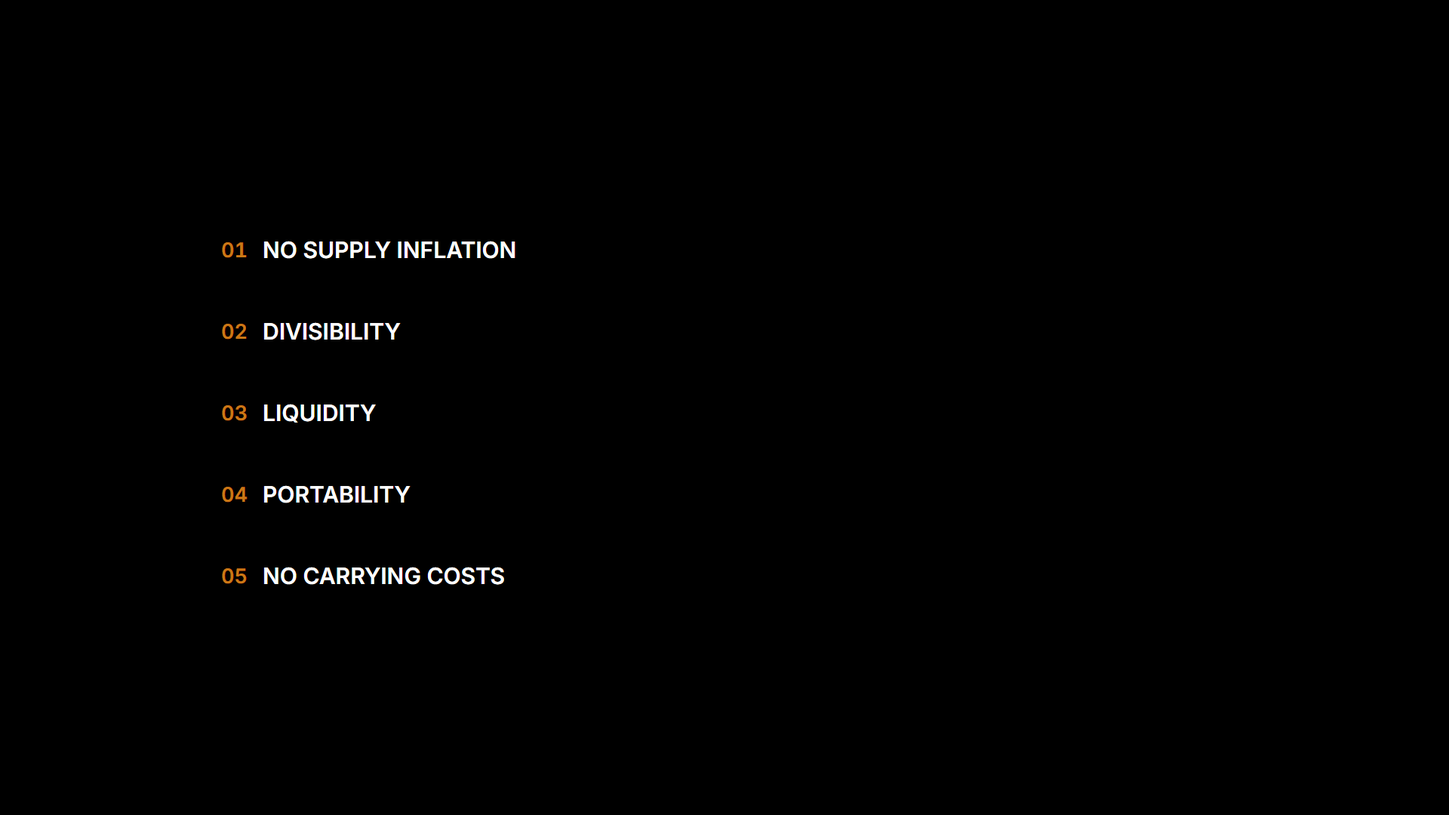
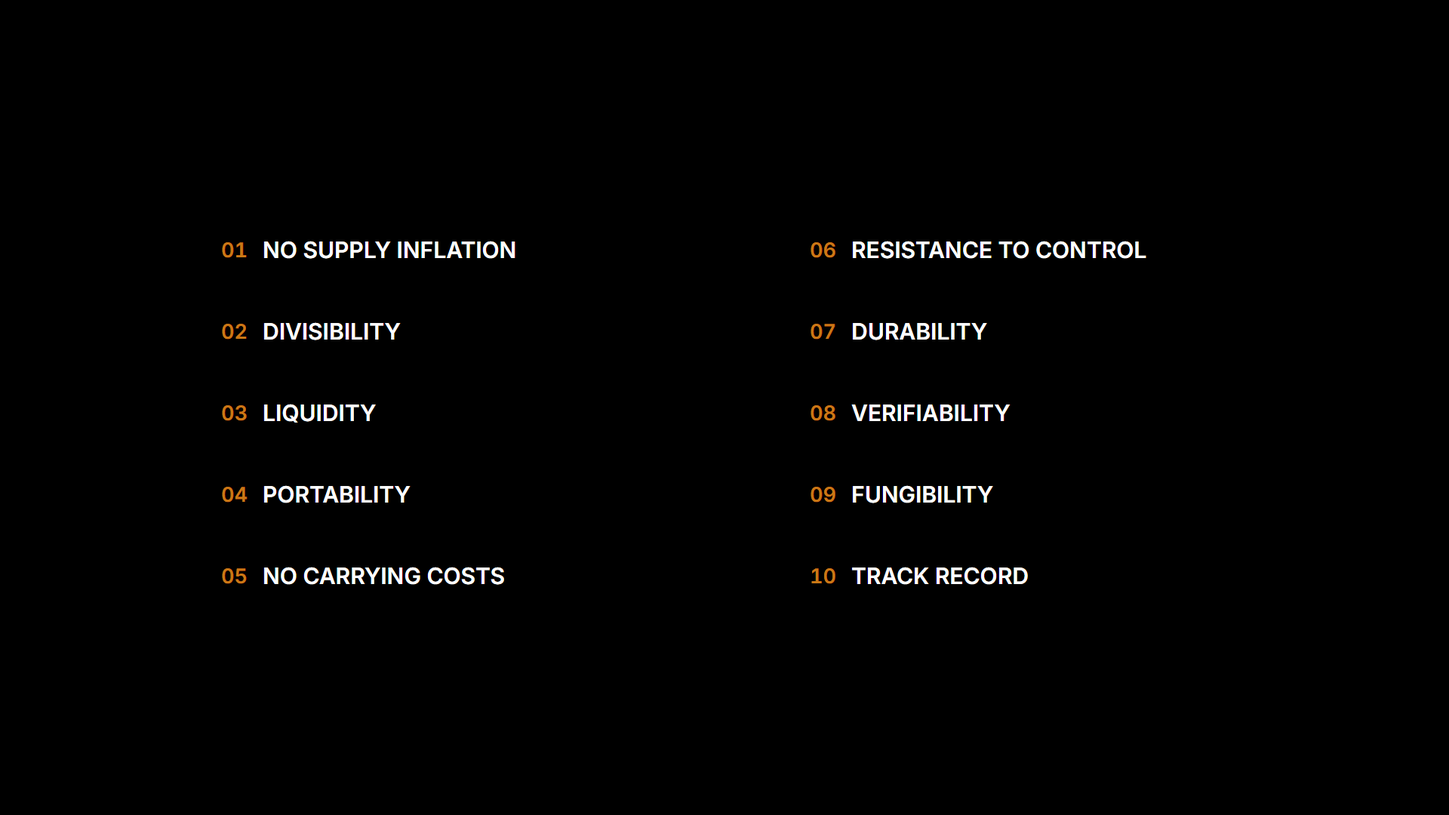
record(batch-d ruling 2): Scene 22 merges its list beats — the two paragraphs merge at zero word changes, one [→] removed; S22 = 3, the act = 42; S22-F2 PORT → ADAPT; the map, the script, the ledger, the harness and the cells amended (the merged cell the complete list, the five-row cell retired); 25
Claude-Session: https://claude.ai/code/session_018ujnmLua1EPGzWvFmZCeAc

diff --git a/review/act-4/states/sheet.html b/review/act-4/states/sheet.html
@@ -38,7 +38,7 @@
 </style></head><body>
 <h1>Act IV — the beat-state sheet · the flipbook · a review request</h1>
 <p class="note"><b>What this is.</b> The frozen Section 4 argument coming home as stills — every settled state of Scenes 16–23,
-one cell per beat, <b>43 cells at the frozen map</b> (S16 8 · S17 5 · S18 8 · S19 2 · S20 5 · S21 5 · S22 4 · S23 6).
+one cell per beat, <b>42 cells at the frozen map</b> (S16 8 · S17 5 · S18 8 · S19 2 · S20 5 · S21 5 · S22 3 · S23 6 — 43 until the Batch D ruling 2 merged Scene 22's list beats).
 The ruled map (<i>docs/act-4-provenance.md</i>, 3 September 2026) is 21 PORT · 0 ADAPT · 0 NEW · 2 retired, so
 <b>every cell is a PORT and this sheet designed nothing</b>: each cell mounts the legacy slide module itself at the build
 the map names, and the legacy stylesheet places every element; the one cell that is not a Section 4 slide — the homecoming,
@@ -61,15 +61,17 @@ claim, <b>the claim and its carrier</b> with the crescendo, <b>the test</b> (the
 question), <b>the inversion</b>, <b>the failures</b> (ten typographic rows), <b>the requirements</b> (the two sweeps, the ten properties),
 <b>the candidates</b>, <b>the fifty scores landing at once</b>, and <b>the closing line</b>. At every frame the question is the same one
 Act III's sheet asked: <i>can I follow the argument by eye alone?</i> Then return two things: your verdicts on the
-<b>pending set</b> — the 9 flagged cells listed below, each “as rendered” or one word that changes it — and
+<b>pending set</b> — the 8 flagged cells listed below, each “as rendered” or one word that changes it — and
 <b>the go-ahead</b> that unlocks Batch D implementation under the sizing law. The approved-port cells ask nothing.</p>
 <p class="note"><b>Ruled at the flipbook walk — the Batch D implementation brief §1, 3 September 2026</b> (master §13), each ruling its own commit, each recorded on the cell it answers:</p>
 <ol class="rulings">
 <li>Scene 19 restages — beat 1 is the inverted framing alone, no carrier on stage; the carrier (the claim in its shell, on the stress stage) arrives at beat 2, timed to “let’s put a carrier on the bench and try to break it.” The change is made at the source (legacy 4-10 keys the carrier to build 2); S19-F1 is ADAPT; the two cells re-rendered</li>
+<li>Scene 22 merges its list beats — all ten properties land in one advance; the two paragraphs merge at zero word changes, one [→] removed; S22 = 3 beats, the act = 42; S22-F2 is ADAPT; the merged cell is the complete two-column list, the five-row cell leaves the record</li>
 </ol>
 <ul class="flags">
 <li><a href="#s19-b1"><b>s19-b1</b></a> — RULED 3 September 2026 (the Batch D implementation brief §1.1, master §13): beat 1 is the inverted framing alone — no carrier on stage. The change is made at the source — legacy 4-10 keys the stress stage’s carrier to build 2 — and S19-F1 is ADAPT in the ruled map, the one change named. The flag this cell carried (4-10’s build 0, the direct framing under the governing question, has no spoken advance of its own; the sheet stood the settled state) is answered by the same ruling: the movement is wiring, and the implementation plays the legacy’s own sequence — the direct framing under the question, then the inverted replacing it — as this beat’s gesture.</li>
 <li><a href="#s19-b2"><b>s19-b2</b></a> — RULED 3 September 2026 (the Batch D implementation brief §1.1, master §13): the carrier arrives at beat 2, timed to “let’s put a carrier on the bench and try to break it.” The flag this cell carried — the two beats shared one still since R7.4 deleted the corner brackets — is closed by the ruling: the frame is unchanged, and its arrival (the claim’s and the shell’s own reveals) is now the beat’s gesture. The beats are no longer identical stills.</li>
+<li><a href="#s22-b3"><b>s22-b3</b></a> — RULED 3 September 2026 (the Batch D implementation brief §1.2, master §13): Scene 22 merges its list beats — all ten properties land in one advance; the two paragraphs merge at zero word changes, one [→] removed; S22 = 3, the act = 42. This cell is the merged beat’s settled state — legacy 4-14’s complete list, its own last state — and S22-F2 is ADAPT in the ruled map, the one change named: the landing as one gesture, at Scene 22’s build (Session 2). The five-row cell this beat used to be leaves the record, and the flag it carried (the grid giving way to the list with no legacy morph between them) is answered the same way — the composition change is Scene 22’s wiring.</li>
 </ul>
 <p class="note"><b>The flags, gathered</b> — each in plain English, each on its cell:</p>
 <ul class="flags">
@@ -79,17 +81,16 @@ Act III's sheet asked: <i>can I follow the argument by eye alone?</i> Then retur
 <li><a href="#s16-b5"><b>s16-b5</b></a> — From beat 4’s released disc (176, at the fork’s apex) to 4-06’s claim inside the carrier stage (the ClaimObject’s own 116 at the scene’s center) is a re-centering and a scale change the map records as wiring (§0: the disc’s scale at the homecoming against its Section 4 scale inside the shell). One number places it; nothing about the object changes — it is the same drawn disc.</li>
 <li><a href="#s16-b6"><b>s16-b6</b></a> — The BITCOIN position in the lineage carries a photograph of a physical coin — the legacy source’s own V-1 flag (a photograph of an object the script denies), restored by your R7.2 ruling and carried here as ruled (map §4 seam 6). One word in the source’s carrier table returns it to the grammar mark; the other four positions are unaffected.</li>
 <li><a href="#s22-b1"><b>s22-b1</b></a> — 4-13’s build 0 — all ten failures standing in the grid, none yet mapped — is the composition this beat’s sweep starts from, and it has no advance of its own in the merged act: Scene 21’s completed index gives way to the grid as this beat’s first movement, and the sweep follows. Wiring, flagged. (The count is as you ruled it: three compositions across four advances.)</li>
-<li><a href="#s22-b3"><b>s22-b3</b></a> — The grid of beat 2 gives way to the two-column list here: 4-14’s own build 0 is empty, so the advance from beat 2 to beat 3 is a composition change — the mapping grid leaving, the properties arriving — with no legacy morph between them (they were separate slides joined by the deck’s crossfade). Wiring, flagged; the two compositions themselves are the legacy’s, untouched.</li>
 <li><a href="#s23-b5"><b>s23-b5</b></a> — The empty table — 4-16’s build 0, the table drawn with no score in it — has no spoken advance of its own once 4-15 and 4-16 are one scene (map §4 seam 7). It enters either with beat 4’s recede (the candidates giving way to the empty table as the question fades) or as the first movement of this beat’s gesture (the table draws, then the fifty scores land). This sheet stands the settled state — the scores landed — and flags the movement. One more thing the still shows faithfully: in the legacy frame the kicker THE COMPARISON (top 104) and the MONETARY ASSETS group label (the table’s first row, top 116) stack with no air between them, and the deck renders the same tight stack at 4-16 build 1. One number on the kicker’s top opens the gap — a ruled change on a proven treatment, yours to name.</li>
 <li><a href="#s23-b6"><b>s23-b6</b></a> — The kicker THE COMPARISON and the MONETARY ASSETS group label stack with no air between them, exactly as the legacy deck renders this frame (the kicker at top 104, the table at top 116). One number opens the gap — a ruled change on a proven treatment, yours to name; this sheet ports the frame as it is.</li>
 </ul>
-<p class="note">Cell classes: <b>2 approved-ruled · 32 approved-port · 9 pending-review</b>. Beneath every cell: its legacy source by slide and build, and its probes — the
+<p class="note">Cell classes: <b>3 approved-ruled · 31 approved-port · 8 pending-review</b>. Beneath every cell: its legacy source by slide and build, and its probes — the
 count of elements the still is asserted to show (the fifty revealed scores, the ten mapped rows, the released claim, the shell's
 future focus), measured in the mounted DOM at capture. The deck itself is untouched by this sheet; the one deck change of the
 session is the ruled 3-08 splice (39 → 38 slides), proven in <i>review/act-4/smoke-deck.json</i>.</p>
-<h3 class="h--approved-ruled">RULED AT THE FLIPBOOK WALK — the cells the presenter answered with a ruling · 2 cells</h3><p class="lang">A cell whose flag the presenter answered with a ruling (the Batch D implementation brief §1, 3 September 2026, master §13). The ruling is recorded on the cell in the flag’s place, the record is amended where it lands (the map, the package, the source), and the cell is re-rendered on the ruling’s authority. Nothing here is pending.</p>
-<h3 class="h--approved-port">APPROVED BY PROVENANCE — the PORT cells · 32 cells</h3><p class="lang">A proven legacy treatment, transplanted verbatim: the legacy slide module itself mounted at the build the ruled map names, the legacy stylesheet placing every element. Review is optional under the provenance rule (AGENTS.md §4.9) — the presenter approved these treatments when the Section 4 deck shipped, and the map’s ruling carries them home. A cell here asks nothing; it is on the sheet so the act can be walked whole.</p>
-<h3 class="h--pending-review">PENDING REVIEW — the flagged cells · 9 cells</h3><p class="lang">Also PORT cells, rendered exactly as the map names them, but each carries a wiring flag the presenter should see: the entry seam (how much of Scene 4 returns, and that the recede is a gesture rather than a state), the disc’s travel and scale between Scene 16’s frames, the legacy build-0 compositions that have no spoken advance once two slides are one scene (the direct framing, the unmapped grid, the empty properties frame, the empty table), the coin photograph in the carrier lineage. Each is one honest render plus a plain-English flag; nothing is decided silently. Your verdict on each — “as rendered”, or one word that changes it — closes it.</p>
+<h3 class="h--approved-ruled">RULED AT THE FLIPBOOK WALK — the cells the presenter answered with a ruling · 3 cells</h3><p class="lang">A cell whose flag the presenter answered with a ruling (the Batch D implementation brief §1, 3 September 2026, master §13). The ruling is recorded on the cell in the flag’s place, the record is amended where it lands (the map, the package, the source), and the cell is re-rendered on the ruling’s authority. Nothing here is pending.</p>
+<h3 class="h--approved-port">APPROVED BY PROVENANCE — the PORT cells · 31 cells</h3><p class="lang">A proven legacy treatment, transplanted verbatim: the legacy slide module itself mounted at the build the ruled map names, the legacy stylesheet placing every element. Review is optional under the provenance rule (AGENTS.md §4.9) — the presenter approved these treatments when the Section 4 deck shipped, and the map’s ruling carries them home. A cell here asks nothing; it is on the sheet so the act can be walked whole.</p>
+<h3 class="h--pending-review">PENDING REVIEW — the flagged cells · 8 cells</h3><p class="lang">Also PORT cells, rendered exactly as the map names them, but each carries a wiring flag the presenter should see: the entry seam (how much of Scene 4 returns, and that the recede is a gesture rather than a state), the disc’s travel and scale between Scene 16’s frames, the legacy build-0 compositions that have no spoken advance once two slides are one scene (the direct framing, the unmapped grid, the empty properties frame, the empty table), the coin photograph in the carrier lineage. Each is one honest render plus a plain-English flag; nothing is decided silently. Your verdict on each — “as rendered”, or one word that changes it — closes it.</p>
 <hr>
 <h2>Scene 16 — Return to the Open Exchange (8 beats · the homecoming · the definition · the claim and its carrier, the crescendo included)</h2><div class="row">
     <figure data-review="pending-review" id="s16-b1">
@@ -493,7 +494,7 @@ session is the ruled 3-08 splice (39 → 38 slides), proven in <i>review/act-4/s
         <br><span class="src">probes 1/1</span> · <a href="./s21-b5.png" target="_blank">full size</a>
       </figcaption>
     </figure></div>
-<h2>Scene 22 — From Failure to Requirement — the Ten Properties (4 beats · three compositions, as ruled)</h2><div class="row">
+<h2>Scene 22 — From Failure to Requirement — the Ten Properties (3 beats · the ten properties in one advance, as ruled 3 Sep 2026)</h2><div class="row">
     <figure data-review="pending-review" id="s22-b1">
       <a href="./s22-b1.png" target="_blank"><img src="./s22-b1.png" alt="s22-b1" loading="lazy" /></a>
       <figcaption>
@@ -518,28 +519,16 @@ session is the ruled 3-08 splice (39 → 38 slides), proven in <i>review/act-4/s
         <br><span class="src">probes 1/1</span> · <a href="./s22-b2.png" target="_blank">full size</a>
       </figcaption>
     </figure>
-    <figure data-review="pending-review" id="s22-b3">
+    <figure data-review="approved-ruled" id="s22-b3">
       <a href="./s22-b3.png" target="_blank"><img src="./s22-b3.png" alt="s22-b3" loading="lazy" /></a>
       <figcaption>
         <b>s22-b3</b> · S22 b3 · <span class="frame">S22-F2</span>
-        <span class="pill pill--pending-review">PORT · pending-review</span>
-        <br>Beat 3 · the first five properties as the numbered left column — 01 NO SUPPLY INFLATION · 02 DIVISIBILITY · 03 LIQUIDITY · 04 PORTABILITY · 05 NO CARRYING COSTS — each a question you can put to anything that claims to be money; the right column waits.
-        <br><span class="flagline"><b>FLAG — for your word:</b> The grid of beat 2 gives way to the two-column list here: 4-14’s own build 0 is empty, so the advance from beat 2 to beat 3 is a composition change — the mapping grid leaving, the properties arriving — with no legacy morph between them (they were separate slides joined by the deck’s crossfade). Wiring, flagged; the two compositions themselves are the legacy’s, untouched.</span>
+        <span class="pill pill--approved-ruled">ADAPT · approved-ruled</span>
+        <br>Beat 3 · the ten properties, all landing in one advance as the two numbered columns — 01 NO SUPPLY INFLATION · 02 DIVISIBILITY · 03 LIQUIDITY · 04 PORTABILITY · 05 NO CARRYING COSTS · 06 RESISTANCE TO CONTROL · 07 DURABILITY · 08 VERIFIABILITY · 09 FUNGIBILITY · 10 TRACK RECORD — each a question you can put to anything that claims to be money. Ten criteria — derived, not chosen. Now let’s point them at something.
         
-        <br><span class="src">source: 4-14-ten-properties, build 1 — the first five, as the left column</span>
+        <br><span class="ruleline"><b>RULED 3 September 2026 (the Batch D implementation brief §1.2, master §13): Scene 22 merges its list beats — all ten properties land in one advance; the two paragraphs merge at zero word changes, one [→] removed; S22 = 3, the act = 42. This cell is the merged beat’s settled state — legacy 4-14’s complete list, its own last state — and S22-F2 is ADAPT in the ruled map, the one change named: the landing as one gesture, at Scene 22’s build (Session 2). The five-row cell this beat used to be leaves the record, and the flag it carried (the grid giving way to the list with no legacy morph between them) is answered the same way — the composition change is Scene 22’s wiring.</b></span>
+        <br><span class="src">source: 4-14-ten-properties, build 2 — the complete two-column list, the legacy’s own last state; the film lands it in one advance (the one ruled change, 3 Sep 2026)</span>
         <br><span class="src">probes 2/2</span> · <a href="./s22-b3.png" target="_blank">full size</a>
-      </figcaption>
-    </figure>
-    <figure data-review="approved-port" id="s22-b4">
-      <a href="./s22-b4.png" target="_blank"><img src="./s22-b4.png" alt="s22-b4" loading="lazy" /></a>
-      <figcaption>
-        <b>s22-b4</b> · S22 b4 · <span class="frame">S22-F2</span>
-        <span class="pill pill--approved-port">PORT · approved-port</span>
-        <br>Beat 4 · the second five complete the list — 06 RESISTANCE TO CONTROL · 07 DURABILITY · 08 VERIFIABILITY · 09 FUNGIBILITY · 10 TRACK RECORD. Ten criteria — derived, not chosen. Now let’s point them at something.
-        
-        
-        <br><span class="src">source: 4-14-ten-properties, build 2 — the second five complete the list</span>
-        <br><span class="src">probes 1/1</span> · <a href="./s22-b4.png" target="_blank">full size</a>
       </figcaption>
     </figure></div>
 <h2>Scene 23 — The Comparison (6 beats · the lineup whole, as ruled · the fifty scores at once · the closing line)</h2><div class="row">

diff --git a/docs/batch-d-package.md b/docs/batch-d-package.md
@@ -13,7 +13,7 @@
 
 # 1. Beat maps (builds = script `[→]` counts, derived from the legacy advance structure)
 
-**DERIVED 3 September 2026 — FROZEN the same day** on the presenter's rulings (master §13: the three ARGUABLE rows at A · A · A; Scene 22 at the default). Each count is the sum of the legacy slides' own `[→]`s in the architecture's merge, at the ruled reading (`docs/act-4-provenance.md` §2: the 4-01 lens retired; 4-06 closing Scene 16; the 4-15 lineup standing as its own frame; `4-13` + `4-14` at four advances). The table beneath records what each ruling settled. **Act IV is 43 beats.**
+**DERIVED 3 September 2026 — FROZEN the same day** on the presenter's rulings (master §13: the three ARGUABLE rows at A · A · A; Scene 22 at the default). Each count is the sum of the legacy slides' own `[→]`s in the architecture's merge, at the ruled reading (`docs/act-4-provenance.md` §2: the 4-01 lens retired; 4-06 closing Scene 16; the 4-15 lineup standing as its own frame; `4-13` + `4-14` at four advances). The table beneath records what each ruling settled. **Act IV is 42 beats** *(43 until the presenter's Batch D ruling 2 of 3 September 2026 merged Scene 22's list beats — the Batch D implementation brief §1.2, master §13)*.
 
 **S16 — Return to the Open Exchange** (8): the return — we left this exchange open; what has to survive until we close it? — and the debt paid: every layer is a claim on the layer below, so what is the bottom layer a claim on? Here is the answer → money is an earned, transferable claim on value: the other half of the exchange, still open → not a legal claim on anyone in particular — a social claim on everyone in general; 1971 seen properly → the recognition: that's what those eighty thousand hours become → the claim needs a body → the claim is the essence, the monetary asset is the carrier; history reorganizes into carriers → the crescendo: you cannot print money → some carriers preserve the claim, some dilute it — which carrier can transport an unredeemed claim most faithfully through time?
 **S17 — What the Carrier Must Preserve** (5): what must the carrier preserve? → the claim has to cross time, from now to later → purchasing power, qualified → redeemability → the definition: a monetary carrier that preserves the purchasing power of an unredeemed claim, and keeps that claim redeemable through time.
@@ -21,7 +21,7 @@
 **S19 — Invert the Question** (2): invert, always invert — instead of what makes a good carrier, ask how a carrier fails → the carrier on the bench.
 **S20 — How the Carrier Can Fail: I** (5): diluted → indivisible → illiquid → trapped → costly to hold.
 **S21 — How the Carrier Can Fail: II** (5): controlled → degraded → unverifiable → non-fungible → untested.
-**S22 — From Failure to Requirement — the Ten Properties** (4): the first five inverted → the second five inverted: each one a failure with a minus sign in front of it → the first five properties, each a question you can put to anything that claims to be money → the second five: ten criteria, derived, not chosen.
+**S22 — From Failure to Requirement — the Ten Properties** (3): the first five inverted → the second five inverted: each one a failure with a minus sign in front of it → the ten properties in one advance, each a question you can put to anything that claims to be money — ten criteria, derived, not chosen *(the two list paragraphs merged by presenter ruling, 3 Sep 2026 — the Batch D implementation brief §1.2, master §13; one `[→]` removed at zero word changes)*.
 **S23 — The Comparison** (6): the three monetary candidates and their holding assumptions → the two productive ones → why these five, why no other coin, the frontier → the framework is explicit, the scores are judgments → all fifty scores in one advance, walked → Don't trust. Verify. — the scores dated, the caveat, the turn to where monetary demand goes.
 
 **The derivation, slide by slide:**
@@ -34,7 +34,7 @@
 | S19 | `4-10` b1–b2 | 2 | **2** | **ruled 3 Sep 2026 (the Batch D implementation brief §1.1, master §13): the carrier arrives at beat 2** — 4-10's stress stage keyed to build 2 at the source; S19-F1 PORT → ADAPT; the count stands |
 | S20 | `4-11` b1–b5 | 5 | **5** | — |
 | S21 | `4-12` b1–b5 | 5 | **5** | — |
-| S22 | `4-13` b1–b2 + `4-14` b1–b2 | 2 + 2 | **4** | **ruled 3 Sep 2026: stands at 4** — three compositions across four advances; no paragraphs merge |
+| S22 | `4-13` b1–b2 + `4-14` b1–b2 | 2 + 2 | **3** | **ruled 3 Sep 2026 at the flipbook walk (the Batch D implementation brief §1.2, master §13): the two list paragraphs merge, one `[→]` removed at zero word changes — all ten properties land in one advance; S22-F2 PORT → ADAPT.** Earlier the same day the count stood at the default, 4 — three compositions across four advances; that ruling is superseded |
 | S23 | `4-15` b1–b4 + `4-16` b1–b2 | 4 + 2 | **6** | Row 1 **ruled A, 3 Sep 2026** (master §13) — the lineup ports whole; the count stands |
 
 ## 1.1 The adaptation ledger — the only edits, and every one of them
@@ -51,6 +51,7 @@ The kickoff brief limits the ledger to three classes; nothing else moved a word 
 | S23 armor · `4-20` b6 | *that is precisely the currency chart from Section 2,* | *that is precisely the currency chart you saw earlier,* | a structural self-reference (*Section 2*) in the relocated steelman; replaced with what the viewer watched (the batch-c ledger's form) |
 | S23 armor · `4-20` b5 | *That is this line: restless, and it is supposed to be.* | *(cut)* | **presenter-ruled, 3 Sep 2026 (master §13):** a dead pointer at 4-20's drawn contrast, which has no frame in Scene 23; deleted, nothing written in its place |
 | S23 armor · `4-20` b6 | *That is this one.* | *(cut)* | **presenter-ruled, 3 Sep 2026 (master §13):** the second dead pointer; deleted, nothing written in its place |
+| S22 · `4-14` b1–b2 | *…without paying to?* ¶ *[→] And the second five. Resistance to control…* | *…without paying to? And the second five. Resistance to control…* | **presenter-ruled at the flipbook walk, 3 Sep 2026 (the Batch D implementation brief §1.2, master §13):** the two list paragraphs merge at zero word changes, one `[→]` removed — all ten properties land in one advance; S22 = 3, the act = 42 |
 
 Checked and left as written: *"a few minutes ago I asked you to hold a question"* (4-04 b1 — the held question is now S15 b6, one beat before the pivot, and the phrase still holds); *"the rest of the inquiry"* (4-08 b1 — already a permitted form); *"in this record"* (4-09 b5 — the historical record, not the film); *"before you saw the table"* (4-12 b5); *"it does real work later"* (4-15 b1); *Charlie Munger* named in the spoken line at 4-10 b1 (the frozen script's own words; master §11 acknowledges him restrainedly and the visible narrative is uninterrupted); *"those eighty thousand hours"* (4-04 b4 — the Prologue's callback, the recognition landing the architecture names).
 
@@ -69,7 +70,7 @@ Checked and left as written: *"a few minutes ago I asked you to hold a question"
 Plain English, one paragraph each; the full list with the map's frame references is `docs/act-4-provenance.md` §4.
 
 1. **Scene 16, beat 1's words.** The return line is installed first; legacy 4-04's first paragraph follows it uncut, and its first four sentences (*he has not received the goods … instead, he receives money*) were spoken at Scenes 3 and 4. The join from the return line to *"this is the moment to pay a debt"*, and the cut of the pre-spoken sentences, are yours. The paragraph carries a bold bracketed marker in §2 so the seam is visible where it sits. **Closed — written by presenter ruling, 3 September 2026 (master §13); §1.1 (b) records the join, §2 carries it, the marker is gone.**
-2. **Scene 22's count.** The architecture says three states; the scripts carry four advances. The package reads three compositions across four advances. If you meant three advances, two paragraphs merge in your word pass. **Closed — ruled 3 September 2026 (master §13): Scene 22 stands at the default.**
+2. **Scene 22's count.** The architecture says three states; the scripts carry four advances. The package reads three compositions across four advances. If you meant three advances, two paragraphs merge in your word pass. **Closed — ruled 3 September 2026 (master §13): Scene 22 stands at the default.** **Superseded at the flipbook walk the same day (the Batch D implementation brief §1.2, master §13): the two list paragraphs merge at zero word changes, one `[→]` removed; S22 = 3, the act = 42; §1.1 (a) records the merge.**
 3. **The steelman's two pointers** (*"That is this line"*, *"That is this one"*) name 4-20's drawn contrast, which has no frame in Scene 23. Keep or cut. **Closed — cut by presenter ruling, 3 September 2026 (master §13); §1.1 (a) records both.**
 4. **The falsifiability passage** is not installed in Act IV — its legacy position is 4-20's closing passages, Act V material. If you want it at Scene 23, where its last sentence points, say so and Batch E installs it here.
 5. **The entry seam** (Scene 15 → 16), **the empty table in the merged Scene 23**, and **the `bitcoin` coin photograph in the carrier lineage** are wiring flags for Session 2, recorded in the map.
@@ -162,9 +163,7 @@ Plain English, one paragraph each; the full list with the map's frame references
 
 [→] And the same operation on the second five. Control becomes resistance to control. Degradation becomes durability. Uncertainty becomes verifiability. Unequal units become fungible ones. And thin evidence becomes the demand for a track record. Notice what just happened, because this is the whole method: I did not choose these. I did not sit down and decide what a good money should look like. Each one is a failure with a minus sign in front of it.
 
-[→] So here is the first five, and every one of them is a question you can put to anything that claims to be money. No supply inflation: can anybody create more units and dilute what I already hold? Divisibility: can it carry both very large and very small value? Liquidity: can I exchange it without waiting and without a haircut? Portability: can it move across distance, and across a border? No carrying costs: can I simply hold it — without paying to?
-
-[→] And the second five. Resistance to control: can anyone outside change the access, the ownership, or the rules? Durability: does it survive physical, technical and institutional change? Verifiability: can authenticity, ownership and supply be established — by me, rather than by somebody telling me? Fungibility: is one unit treated as good as another? And track record: what evidence do we actually have that it survives crises and changing regimes? Ten criteria — derived, not chosen. Now let’s point them at something.
+[→] So here is the first five, and every one of them is a question you can put to anything that claims to be money. No supply inflation: can anybody create more units and dilute what I already hold? Divisibility: can it carry both very large and very small value? Liquidity: can I exchange it without waiting and without a haircut? Portability: can it move across distance, and across a border? No carrying costs: can I simply hold it — without paying to? And the second five. Resistance to control: can anyone outside change the access, the ownership, or the rules? Durability: does it survive physical, technical and institutional change? Verifiability: can authenticity, ownership and supply be established — by me, rather than by somebody telling me? Fungibility: is one unit treated as good as another? And track record: what evidence do we actually have that it survives crises and changing regimes? Ten criteria — derived, not chosen. Now let’s point them at something.
 
 ## S23 — The Comparison
 

diff --git a/docs/act-4-provenance.md b/docs/act-4-provenance.md
@@ -47,12 +47,12 @@ Act II taught the pipeline to answer this before building anything: *what stays 
 | **S20-F1** the failure index I — five rows, typographic | **PORT** | `4-11-carrier-failures-i` + `FailureRows` + `FIRST_FAILURE_GROUP` (frozen data). Serves S20 b1–b5 |
 | **S21-F1** the failure index II | **PORT** | `4-12-carrier-failures-ii` + `FailureRows` + `SECOND_FAILURE_GROUP` (frozen data). Serves S21 b1–b5 |
 | **S22-F1** the ten failures standing, then inverting — the mapping grid | **PORT** | `4-13-failure-to-requirement`: the grid of ten failure → property rows, the main line *Invert each failure. The properties emerge.*, the two sweeps (`data-mapped` per group). Its build 0 — the failures standing, unmapped — is the merged scene's entry state. Serves S22 b1–b2 |
-| **S22-F2** the ten properties — two numbered columns | **PORT** | `4-14-ten-properties` builds 1–2 (five rows per advance, in the two groups they were derived in). The merge is the architecture's (*failure → requirement merged with the ten properties (three states)*): three compositions — the failures standing, the mapping, the properties — across the scripts' four advances; the count is flagged in §4, seam 3. Serves S22 b3–b4 |
+| **S22-F2** the ten properties — two numbered columns | **ADAPT** — *ruled 3 Sep 2026* | `4-14-ten-properties` builds 1–2 (five rows per advance, in the two groups they were derived in). The merge is the architecture's (*failure → requirement merged with the ten properties (three states)*): three compositions — the failures standing, the mapping, the properties. **The one ruled change (the Batch D implementation brief §1.2, master §13): all ten properties land in one advance** — the two list paragraphs merge at zero word changes, one `[→]` removed; S22 = 3, the act = 42. The two numbered columns are the port; their landing is one gesture at Scene 22's build (Session 2); the legacy module is untouched. Serves S22 b3 |
 | **S23-F1** the candidates under the question — the five at display scale under their group labels | **PORT** — *ruled A, 3 Sep 2026* | `4-15-framework-to-comparison` builds 1–4 — `ComparisonAssetHeader` at `DISPLAY_BOX` (180 × 150) on the dark-field register (R7.4 §B: display scale is the sensory register), MONETARY ASSETS / PRODUCTIVE ASSETS, the divider, the settle, the question's recede. All five renders are in the shipping set. **Ruled A, 3 September 2026 (master §13): the lineup ports whole; the table follows as the next frame; no ADAPT enters the map.** §2, row 1. Serves S23 b1–b4 |
 | **S23-F2** the table — kicker, PROPERTY column, five compact headers, ten rows; all fifty scores in one advance | **PORT** | `4-16-the-comparison` builds 0–1 + `AssetComparisonTable` + `DotRating` + `COMPARISON_ROWS` (frozen — §3's record), the headers as grammar glyphs (`TABLE_HEADERS_DARK_FIELD = false`, the R7.4 toggle as it stands). No total, no winner badge, no highlight (master §3.7). **Wiring, not a change:** the empty table (4-16's build 0) has no advance of its own in the merged scene — it enters with b4's recede or as the first movement of b5's gesture; Session 2 stands one honest reading and flags it. Serves S23 b5 |
 | **S23-F3** the closing line — *Don't trust. Verify.* | **PORT** | `4-16-the-comparison` build 2 — `.s4-comparison__final`, two spans, on stage exactly once (master §3.7; verified in `review/act-4/script-install.json`). Serves S23 b6 |
 
-**Proposed: 21 PORT · 0 ADAPT · 0 NEW · 0 ARGUABLE (both rows ruled at their defaults, 3 Sep 2026 — S23-F1 PORT, the 4-01 lens retired) · 2 retired (the 4-01 lens; the 4-04 goods band).** **Amended by presenter ruling at the flipbook walk, 3 September 2026 (the Batch D implementation brief §1, master §13): 20 PORT · 1 ADAPT · 0 NEW · 2 retired — S19-F1 PORT → ADAPT, the carrier arriving at beat 2.** Act IV designs nothing and carries no candidates — S23-F1 is ruled PORT — the frozen argument comes home in its proven treatments. **The claim/carrier scene's home (S16 vs S17) was the third ARGUABLE question (§2, row 3) — ruled A, 3 September 2026: the four beats close Scene 16; S16 = 8, S17 = 5.**
+**Proposed: 21 PORT · 0 ADAPT · 0 NEW · 0 ARGUABLE (both rows ruled at their defaults, 3 Sep 2026 — S23-F1 PORT, the 4-01 lens retired) · 2 retired (the 4-01 lens; the 4-04 goods band).** **Amended by presenter ruling at the flipbook walk, 3 September 2026 (the Batch D implementation brief §1, master §13): 19 PORT · 2 ADAPT · 0 NEW · 2 retired — S19-F1 PORT → ADAPT, the carrier arriving at beat 2; S22-F2 PORT → ADAPT, the ten properties landing in one advance (S22 = 3, the act = 42).** Act IV designs nothing and carries no candidates — S23-F1 is ruled PORT — the frozen argument comes home in its proven treatments. **The claim/carrier scene's home (S16 vs S17) was the third ARGUABLE question (§2, row 3) — ruled A, 3 September 2026: the four beats close Scene 16; S16 = 8, S17 = 5.**
 
 ---
 
@@ -103,7 +103,7 @@ Legacy 4-06 is four beats: the claim needs a body; the claim is the essence and 
 | **S18-F3 · F4 · F5** | `src/slides/section-4-ideal-store/09-future-is-unknowable.js` | The 2126 date; *We know the date. We do not know the world.*; the three uncertainty pairs, one per advance; the governing question at statement scale with the scene quiet |
 | **S19-F1 · F2** | `src/slides/section-4-ideal-store/10-invert-the-question.js` + `src/components/section-4/CarrierStressStage.js` | The direct framing replaced by the inverted; the carrier on the bench with no corner frame (R7.4 §D.1). *S19-F1 is ADAPT since 3 Sep 2026: the carrier is keyed to build 2 at the source and arrives on the bench beat* |
 | **S20-F1 · S21-F1** | `src/slides/section-4-ideal-store/11-carrier-failures-i.js`, `12-carrier-failures-ii.js` + `src/components/section-4/FailureRows.js` + `_failure-property-data.js` | The typographic index: number, failure, explanation, one row per advance, five per scene |
-| **S22-F1 · F2** | `src/slides/section-4-ideal-store/13-failure-to-requirement.js`, `14-ten-properties.js` + `_failure-property-data.js` | The mapping grid (failure → property, mapped in the two groups they were derived in); the two numbered columns of properties, five per advance |
+| **S22-F1 · F2** | `src/slides/section-4-ideal-store/13-failure-to-requirement.js`, `14-ten-properties.js` + `_failure-property-data.js` | The mapping grid (failure → property, mapped in the two groups they were derived in); the two numbered columns of properties. *S22-F2 is ADAPT since 3 Sep 2026: the ten land in one advance rather than five per advance* |
 | **S23-F1** *(default)* | `src/slides/section-4-ideal-store/15-framework-to-comparison.js` + `src/components/section-4/ComparisonAssetHeader.js` | The question; the five candidates at display scale (dark-field) under MONETARY ASSETS / PRODUCTIVE ASSETS with the divider; the settle; the question's recede |
 | **S23-F2 · F3** | `src/slides/section-4-ideal-store/16-the-comparison.js` + `src/components/section-4/AssetComparisonTable.js`, `DotRating.js` + `_comparison-data.js` | The kicker THE COMPARISON in the quiet register; the table — PROPERTY, five compact glyph headers, ten rows, five-dot ratings; all fifty scores on one advance (R7.4 §D.3); *Don't trust. Verify.* as two spans |
 
@@ -134,7 +134,7 @@ These are the places where the legacy material and the architecture's merges do 
 
 1. **The entry seam (Scene 15 → Scene 16).** After today's ruling the act is entered from the pivot coda: the triad with the disc at its center and the store-of-value question. The homecoming reconstructs the Scene 4 frame around that disc. How much of Scene 4 returns — the whole fork at rest or the save road with the held claim alone — and when the register shifts to black/white/orange is Session 2's wiring, rendered once and flagged; if you want a particular reading, one sentence names it.
 2. **Scene 16, beat 1's words.** The architecture's line is installed first, verbatim: *"We left this exchange open. What has to survive until we close it?"* Legacy 4-04's first paragraph follows it verbatim and uncut, and its first four sentences — *he has not received the goods; no shoes, no steak, no wine; that would have been barter; instead, he receives money* — were spoken at Scenes 3 and 4. The second half of that paragraph is the bridge the film needs (*"this is the moment to pay a debt — because a few minutes ago I asked you to hold a question … Here is the answer."*). The join from the return line to the bridge, and the cut of the pre-spoken sentences, are yours to write; the package marks the seam in place. **Closed — written by presenter ruling, 3 September 2026 (master §13): the return line, then *"The surgeon is still holding the claim he accepted that day."*, then the legacy passage uncut from *"this is the moment to pay a debt"* onward; the four pre-spoken sentences cut. Installed and verified in `docs/batch-d-package.md` §2.**
-3. **Scene 22's count.** The architecture says *"three states"*; the frozen scripts carry four advances (4-13's two sweeps, 4-14's two columns). The map reads *three states* as three compositions — the failures standing, the mapping, the properties — across four spoken advances, which is what the legacy already does. If you meant three advances, two paragraphs must merge, and that is your word pass. **Closed — ruled 3 September 2026 (master §13): four advances, three compositions; the beat maps are frozen.**
+3. **Scene 22's count.** The architecture says *"three states"*; the frozen scripts carry four advances (4-13's two sweeps, 4-14's two columns). The map reads *three states* as three compositions — the failures standing, the mapping, the properties — across four spoken advances, which is what the legacy already does. If you meant three advances, two paragraphs must merge, and that is your word pass. **Closed — ruled 3 September 2026 (master §13): four advances, three compositions; the beat maps are frozen.** **Superseded at the flipbook walk the same day (the Batch D implementation brief §1.2, master §13): the two list paragraphs merge at zero word changes, one `[→]` removed — all ten properties land in one advance; S22 = 3, the act = 42; S22-F2 PORT → ADAPT.**
 4. **The stability steelman's two pointers.** Ruling 5 moved the full steelman into Scene 23's notes as not-spoken armor; it is installed verbatim from legacy 4-20's three closing spoken beats. Two sentences in it — *"That is this line: restless"* and *"That is this one"* — point at 4-20's drawn contrast, which has no frame in Scene 23. Keep them as a reminder of the drawing, or cut them; flagged, not rewritten. **Closed — cut by presenter ruling, 3 September 2026 (master §13): both sentences deleted, nothing written in their place.**
 5. **The falsifiability passage's home.** Its ruled position is spoken (master §9.6); its legacy position is 4-20's closing passages — Act V material (Scene 26 merges 4-19 and 4-20). It is not installed in Act IV. Its last sentence points at the table (*"don't wait for my updated scores. That's what 'Don't trust. Verify.' means when it's meant."*); if you want it spoken at Scene 23 rather than in Act V, say so and the Batch E package installs it here instead.
 6. **The `bitcoin` coin photograph in the carrier lineage (S16-F4).** The legacy source flags it as the V-1 reading on file — a photograph of a physical coin beside a script that denies the object — restored by your R7.2 ruling. The port carries it as ruled; one word in the source returns it to the glyph.

diff --git a/docs/what-is-money-master.md b/docs/what-is-money-master.md
@@ -467,6 +467,7 @@ Every freeze and every amendment, in order. **A freeze is reopened only by the p
 | 3 Sep 2026 | **Presenter script ruling — the two dead pointer sentences in Scene 23's stability armor are cut** (`docs/act-4-provenance.md` §4 seam 4 and `docs/batch-d-package.md` §1.2 seam 3, closed). In the notes-only steelman relocated by architecture Ruling 5, *"That is this line: restless, and it is supposed to be."* and *"That is this one."* pointed at legacy `4-20`'s drawn contrast, which has no frame in Scene 23. Both sentences are deleted; nothing is written in their place, and every other word of the armor stands verbatim. Recorded as two cuts in the package's adaptation ledger (§1.1 (a)) and applied and verified mechanically by the installation harness (`review/act-4/script-install.json`). |
 | 3 Sep 2026 | **Presenter script ruling — Scene 16, beat 1's words: the join is written** (`docs/act-4-provenance.md` §4 seam 2 and `docs/batch-d-package.md` §1.2 seam 1, closed). The beat reads: the architecture's return line verbatim — *"We left this exchange open. What has to survive until we close it?"* — then the presenter's bridge sentence, **"The surgeon is still holding the claim he accepted that day."**, then legacy `4-04`'s first paragraph uncut from *"this is the moment to pay a debt"* onward. The four pre-spoken sentences — *"He has not received the final goods or services he actually wants. No shoes, no steak, no wine, no housing — if he'd received those directly, that would have been barter. Instead, he receives money."* — are cut; they were spoken at Scenes 3 and 4. The seam marker leaves the package; the join enters the adaptation ledger as the Scene 4 return's named fusion (§1.1 (b)) and is applied and verified mechanically. **One mechanical reading recorded, not decided:** the legacy sentence opens *"And this is the moment…"*, and the package keeps the legacy *And* so that no legacy character is altered — the passage resumes at *"And this is the moment to pay a debt — because…"*; one word drops it if the presenter meant the sentence to begin at *This*. |
 | 3 Sep 2026 | **Presenter staging ruling, Batch D — Scene 19 restages: the carrier arrives at beat 2** (the Batch D implementation brief §1.1, ruled at the flipbook walk against tag `act-4-states`; recorded by the act-4-impl-1 session before anything was built). Beat 1 is the inverted framing alone — **no carrier on stage**; the carrier — the claim in its shell, on the stress stage — **arrives at beat 2**, timed to *"let's put a carrier on the bench and try to break it."* The two beats are no longer identical stills. The sheet's flag on s19-b2 named the change as one word in the source's state (the stage's visibility keyed to build 2), and the ruling makes it at the source: legacy `4-10-invert-the-question`'s build map keys the stress stage's carrier to build 2, and `CarrierStressStage` gains a `visible` state so the carrier arrives with the claim's and the shell's own reveals; nothing else in the treatment moves. Consequence, recorded where it lands: **S19-F1 reclassifies PORT → ADAPT** in `docs/act-4-provenance.md` — the one ruled change named as *no carrier on stage at the inversion; the carrier arrives on the next beat* — and S19-F2 stays PORT (4-10 build 2's own composition, its arrival now the beat's gesture). The two cells re-render on this row's authority (`review/act-4/states/` s19-b1 · s19-b2). Beat count unchanged (S19 = 2). |
+| 3 Sep 2026 | **Presenter map ruling, Batch D — Scene 22 merges its list beats: all ten properties land in one advance; S22 = 3, Act IV = 42** (the Batch D implementation brief §1.2, ruled at the flipbook walk against tag `act-4-states`; supersedes the count ruling of the same day that stood Scene 22 at the default). The two list paragraphs of the installed script — the first five properties and the second five — **merge at zero word changes, one `[→]` removed** (the Batch C r2 split's mechanical form, in reverse: the merged paragraph reads *"…without paying to? And the second five. Resistance to control…"*); the beat map amends **S22 4 → 3, Act IV 43 → 42**; the merged cell is the complete two-column list, legacy `4-14`'s own last state. Consequence, recorded where it lands: **S22-F2 reclassifies PORT → ADAPT** in `docs/act-4-provenance.md`, the one ruled change named as *the ten properties land in one advance* — the two numbered columns are the port, and their landing is one gesture at Scene 22's build (Session 2); the legacy `4-14` module is untouched. The map (`docs/batch-d-package.md` §1), the installed script (§2, the merge in the adaptation ledger §1.1), the installation harness (`review/act-4/harness/script-install.cjs`), and the S22 cells amend with this row (s22-b3 the complete list; the five-row cell leaves the record). |
 
 ---
 
